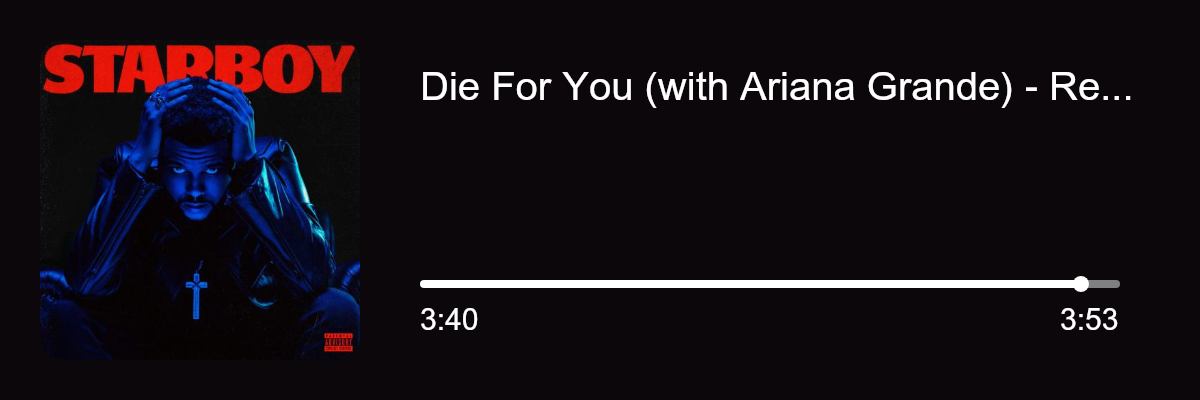
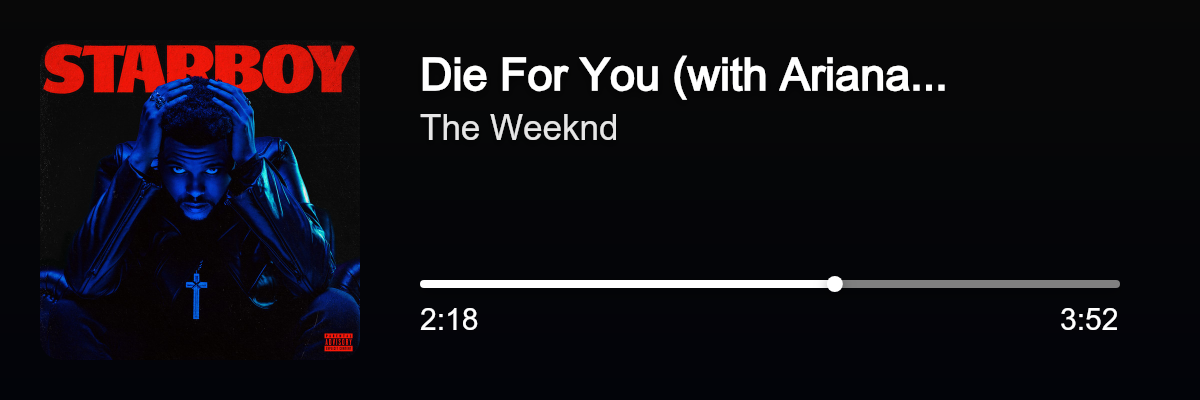
chore: update test and example code

diff --git a/src/test/classicCard.test.js b/src/test/classicCard.test.js
@@ -4,17 +4,19 @@ const path = require("path");
 
 async function testClassicCard() {
   const imageBg =
-    "https://i.scdn.co/image/ab67616d00001e02730cc8eb459c92944233e891";
-  const imageText = "恋愛サーキュレーション";
+    "https://i.scdn.co/image/ab67616d0000b2738ad8f5243d6534e03b656c8b";
+  const imageText = "Die For You (with Ariana Grande) - Remix";
+  const songArtist = "The Weeknd";
   const trackStream = false;
   const trackDuration = 138000;
-  const trackTotalDuration = 338000;
+  const trackTotalDuration = 232857;
   const fontPath =  path.join(__dirname, "..", "fonts", "ArialUnicodeMS.ttf");
 
   try {
     const buffer = await classicCard({
       imageBg,
       imageText,
+      //songArtist,
       trackStream,
       trackDuration,
       trackTotalDuration,

diff --git a/src/example/classicCard.example.js b/src/example/classicCard.example.js
@@ -6,6 +6,7 @@ client.on("interactionCreate", async (interaction) => {
   const cardImage = await classicCard({
     imageBg: "https://i.scdn.co/image/ab67616d00001e028ad8f5243d6534e03b656c8b", // Require
     imageText: "Die For You (with Ariana Grande) - Remix", // Require
+    songArtist: "The Weeknd", //Optional. Default is null
     trackDuration: 220000, // Require
     trackTotalDuration: 233000, // Require
     trackStream: false, // Optional. Default is set to false.
